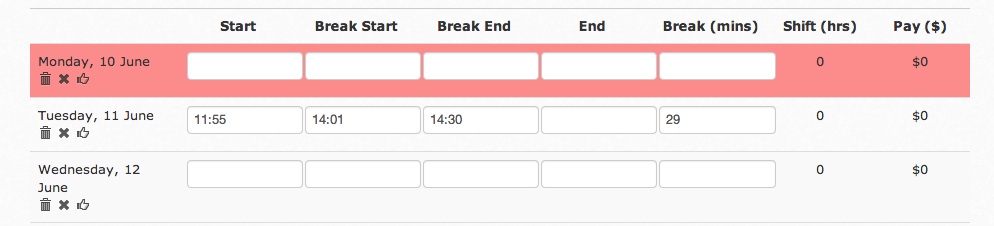
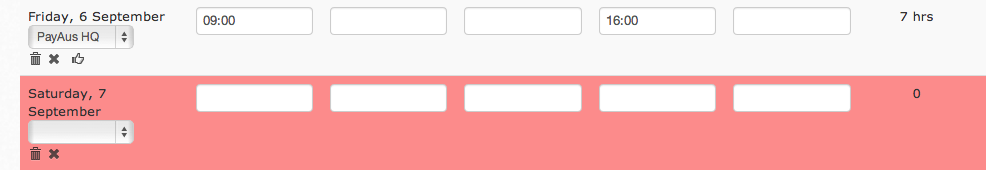
add leave

diff --git a/_posts/timesheets/2013-06-12-leave.md b/_posts/timesheets/2013-06-12-leave.md
@@ -5,15 +5,59 @@ categories: ['timesheets']
 sort: 7
 ---
 
+## Recording Leave
+
+### Staff
+
 PayAus makes recording staff leave simple. Staff are able to record leave by entering the dates they weren't at work into the [online leave portal](../../portals/leave). That portal is availble anywhere with an internet connection, so your staff can use it from home, once they have the link.
 
-When staff request leave for a date, the corresponding shift will be highlighted in [red](../colours/) on their timesheet. In the timesheet below, the employee took Monday off, but was at work on Tuesday:
+### Managers
+
+Managers can use the leave form to record leave for any employee. Here they can choose a date, reason, and number of hours of leave to claim. The leave form is accessible from the timesheets menu.
+
+![Leave form on the timesheets menu](/img/timesheets/leave_form_menu.png)
+
+![Leave form](/img/timesheets/leave_form.png)
+
+As a shortcut, managers can click the icon next to an employee's shift to record leave for that 
+shift.
+
+![Recording leave from a shift](/img/timesheets/record_leave_shift.png)
+
+## Viewing Leave
+
+### Leave Calendar
+
+The leave calendar shows leave requests for the current month. You can use the arrows to navigate between months. Hover over someone's name to see details of their leave request, or click on it to go to their timesheet. The leave calendar is accessible from the timesheets menu.
+
+![Leave form on the timesheets menu](/img/timesheets/leave_calendar_menu.png)
+
+![Leave form](/img/timesheets/leave_calendar.png)
+
+### On Timesheets
+
+When staff request leave for a date, the corresponding shift will be highlighted in [red](../colours/) on their timesheet. In the timesheet below, the employee took Saturday off, but was at work on Friday:
 
 ![A timesheet with one day of leave requested](/img/timesheets/leave_requested.png)
 
 When an employee requests leave, they are required to provide a reason. This reason is added as a [comment](../../notifications/comments/) on their timesheet. You can click the comments icon to see the reason that was entered.
 
 ![A timesheet with a comment](/img/notifications/comments_icon_timesheet.png)
+
 ![Leave request comment](/img/notifications/leave_request_comment.png)
 
 You can leave other comments on the timesheet as usual. Notifications for comments you make will **not** be sent to the employee who requested leave (unless they happen to be a manager), as regular [employees](../../staff/team/#roles) are not able to see comments. Thus, if you need to discuss an employee's leave request, you should contact them directly.
+
+## Exporting Leave
+
+When creating an [award](../../awards), you are able to mark the award as applying to paid leave. Awards that apply to paid leave are appear as options in the "leave type" field on the staff leave portal, and management leave form. See the [awards guide](../../awards/fields/#leave) for more information.
+
+![Creating a leave based awards](/img/timesheets/leave_award_form.png)
+
+### Excel
+
+If you [export your timesheet data to Excel](../../timesheets/exports/#excel), leave data is included in the exported workbook.
+
+### Xero
+
+PayAus can automatically create Xero [Leave Applications](http://help.xero.com/help/PayrollManageLeave.htm) when staff request leave in PayAus. To do this, check the appropriate box when created your leave-based award. A leave application in Xero will be created automatically when staff request leave, or when a manager records it for them. This should be then included in your Xero pay run automatically.

diff --git a/_posts/timesheets/2013-02-09-exports.md b/_posts/timesheets/2013-02-09-exports.md
@@ -195,3 +195,13 @@ To import data into Attaché, follow these steps.
 4. You can run a test import by choosing `Transactions` > `Payroll` > `Disk File Entries` > `Test File Entries`. After running the test import, fix any errors that were found.
 6. To import the data, choose `Transactions` > `Payroll` > `Disk File Entries` > `Read File Entries`.
 7. The file will be renamed to `PAYTSHT.BAK`. You can keep a copy of this file for your records if you like.
+
+---
+
+## Excel
+
+Finally, you are able to export your timesheet data into an Excel workbook. The workbook contains three kinds of spreadsheets. The first, an overview, contains data for your all visible timesheets. The second contains a spreadsheet for each day of the pay period visible. The third contains a spreadsheet for each employee's timesheet(s).
+
+To download this workbook choose "Export to Excel" from the exports menu.
+
+![Timesheet exports menu](/img/timesheets/timesheet_exports_menu.png)

diff --git a/_posts/portals/2013-06-10-leave.md b/_posts/portals/2013-06-10-leave.md
@@ -6,11 +6,7 @@ sort: 3
 alias: /leave
 ---
 
-Couldn't make it to work? You'll want the sick leave to be recorded on your timesheet so your manager is away of it. Tracking your leave with PayAus is easy. To start, go to the [employee portal](../employee/):
-
-![The web portal](/img/portals/web_portal.png)
-
-Click the big link to *claim a day of leave*. You'll be redirected to the leave portal, which looks similar:
+Couldn't make it to work? You'll want the sick leave to be recorded on your timesheet so your manager is away of it. Tracking your leave with PayAus is easy. To start, go to the [employee portal](../employee/). Then, click the big link to **claim a day of leave**. You'll be redirected to the leave portal, which looks similar:
 
 ![The leave portal](/img/portals/leave_portal.png)
 

diff --git a/_posts/awards/2013-08-25-fields.md b/_posts/awards/2013-08-25-fields.md
@@ -88,3 +88,11 @@ This data is not used by the award interpreter, **except** the weekly salary fie
 	* Create an award with an hourly rate that applies every day to the same staff to which this award applies
 	* Add base hourly rates for all staff to which this award applies
 	* Or do both; the generic award's hourly rate will take precedence
+
+### Leave
+
+*Track time staff didn't work.*
+
+This information is used for [tracking staff leave](../../timesheets/leave/). When staff request leave, they are able to choose a leave type &mdash; if they choose this leave type, it will be included when [exporting timesheet data](../../timesheets/exports) using the award interpreter.
+
+Note that PayAus does *not* manage leave accruals. You will still need to tally your accurals separately.
